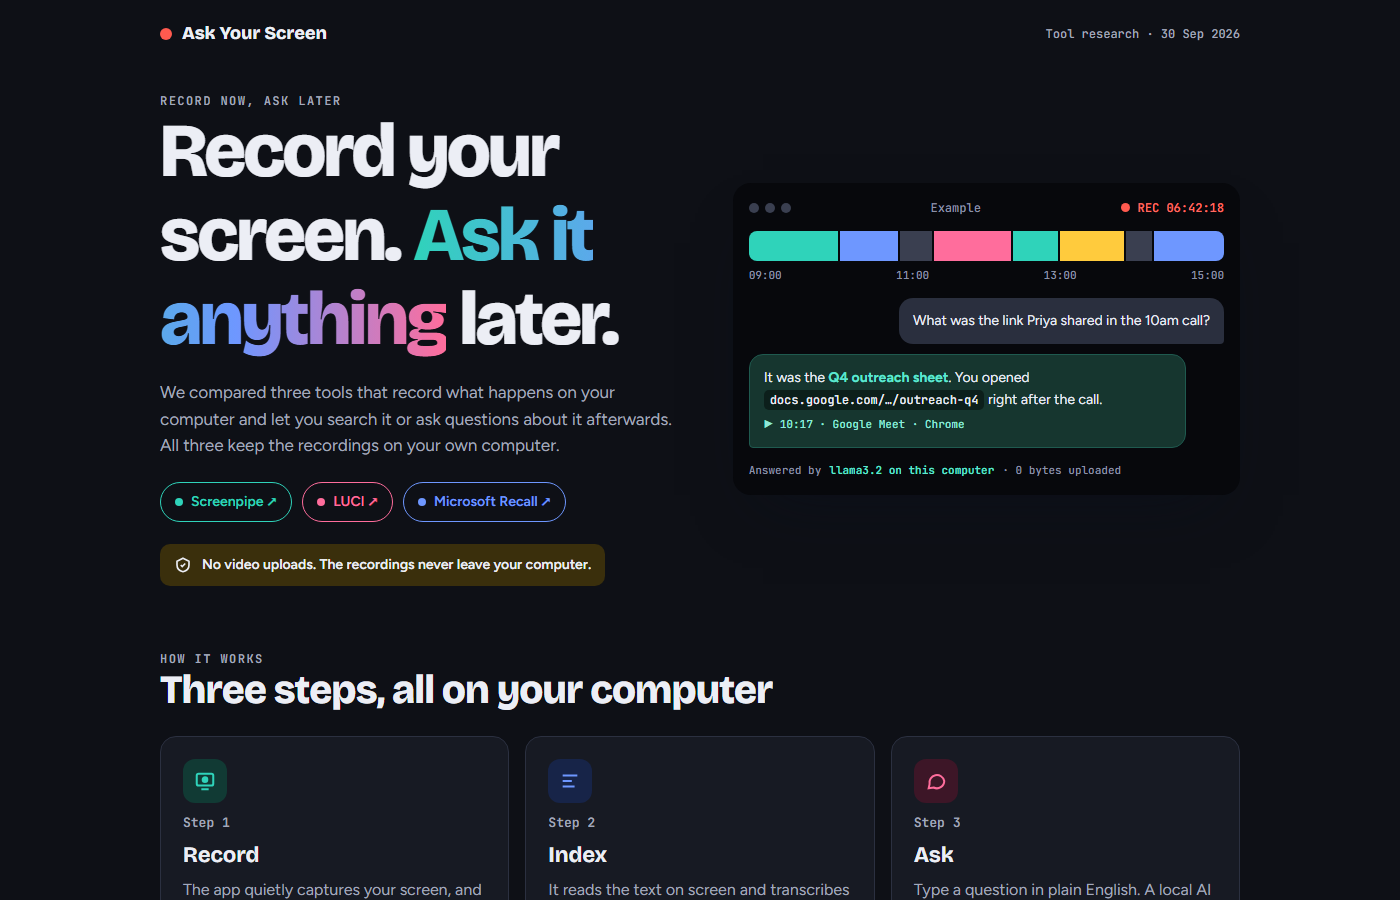
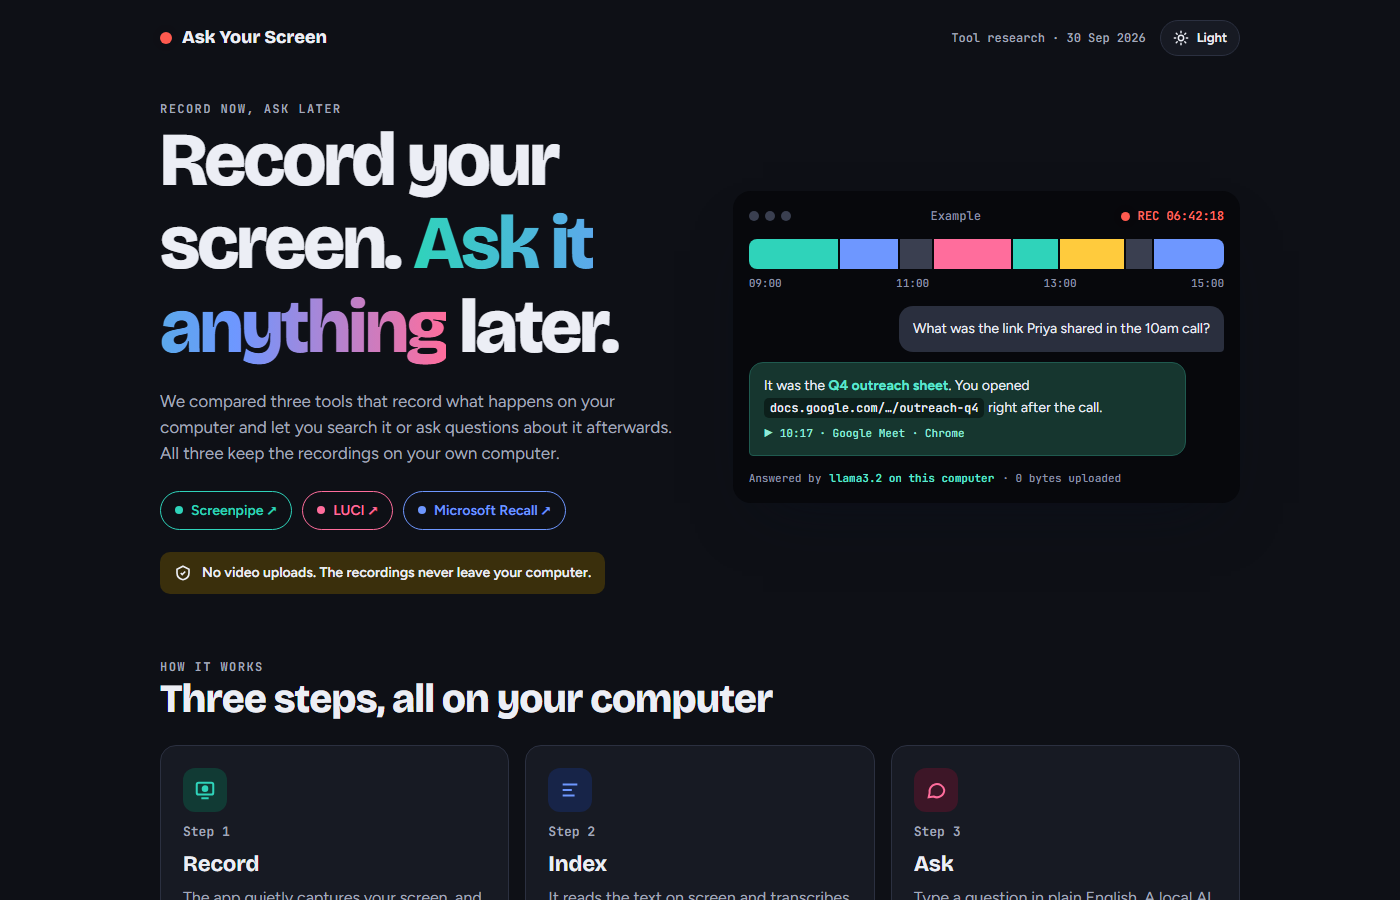
Add light/dark mode toggle, default to dark

diff --git a/index.html b/index.html
@@ -8,7 +8,16 @@
 <meta property="og:description" content="Record your screen, ask it anything later. Screenpipe vs LUCI vs Microsoft Recall, all local, no uploads.">
 <meta property="og:url" content="https://smit02k.github.io/ask-your-screen/">
 <meta property="og:image" content="https://smit02k.github.io/ask-your-screen/assets/preview.png">
-<meta name="twitter:card" content="summary_large_image"><link rel="preconnect" href="https://fonts.googleapis.com">
+<meta name="twitter:card" content="summary_large_image">
+<script>
+/* Theme: dark by default; remembers the visitor's choice. Runs before content renders to avoid a flash. */
+(function(){
+  var t = 'dark';
+  try { var s = localStorage.getItem('theme'); if (s === 'light' || s === 'dark') t = s; } catch(e){}
+  document.documentElement.setAttribute('data-theme', t);
+})();
+</script>
+<link rel="preconnect" href="https://fonts.googleapis.com">
 <link rel="preconnect" href="https://fonts.gstatic.com" crossorigin>
 <link rel="stylesheet" href="https://fonts.googleapis.com/css2?family=Bricolage+Grotesque:opsz,wght@12..96,500;12..96,700;12..96,800&family=Figtree:wght@400;500;600;700&family=JetBrains+Mono:wght@500;600&display=swap">
 <style>
@@ -59,6 +68,14 @@ section{padding-block:56px 0; display:grid; gap:24px}
 .recdot{width:12px; height:12px; border-radius:50%; background:var(--rec); box-shadow:0 0 0 4px color-mix(in srgb,var(--rec) 22%,transparent); animation:pulse 1.6s ease-in-out infinite}
 @keyframes pulse{50%{box-shadow:0 0 0 8px color-mix(in srgb,var(--rec) 0%,transparent)}}
 .meta{font-family:var(--f-mono); font-size:12px; color:var(--muted)}
+.top-right{display:flex; align-items:center; gap:14px}
+.theme-btn{font:inherit; font-size:13px; font-weight:600; display:inline-flex; align-items:center; gap:8px; padding:7px 12px; border-radius:999px; border:1.5px solid var(--line); background:var(--surface); color:var(--ink); cursor:pointer; transition:border-color .2s, background .2s}
+.theme-btn:hover{border-color:var(--muted)}
+.theme-btn svg{flex:none}
+.theme-btn .i-sun{display:none}
+:root[data-theme="dark"] .theme-btn .i-sun{display:block}
+:root[data-theme="dark"] .theme-btn .i-moon{display:none}
+body{transition:background-color .25s, color .25s}
 
 /* hero */
 .hero{display:grid; grid-template-columns:1.05fr 1fr; gap:40px; align-items:center; padding-block:24px 8px}
@@ -216,7 +233,14 @@ footer{margin-top:40px; font-family:var(--f-mono); font-size:12px; color:var(--m
 <div class="wrap">
   <header class="top">
     <div class="brand"><span class="recdot" aria-hidden="true"></span>Ask Your Screen</div>
-    <div class="meta">Tool research · 30 Sep 2026</div>
+    <div class="top-right">
+      <div class="meta">Tool research · 30 Sep 2026</div>
+      <button class="theme-btn" id="theme-btn" type="button" aria-label="Switch color theme">
+        <svg class="i-sun" width="16" height="16" viewBox="0 0 24 24" fill="none" stroke="currentColor" stroke-width="2.2" stroke-linecap="round" aria-hidden="true"><circle cx="12" cy="12" r="4"/><path d="M12 2v2M12 20v2M4.9 4.9l1.4 1.4M17.7 17.7l1.4 1.4M2 12h2M20 12h2M4.9 19.1l1.4-1.4M17.7 6.3l1.4-1.4"/></svg>
+        <svg class="i-moon" width="16" height="16" viewBox="0 0 24 24" fill="none" stroke="currentColor" stroke-width="2.2" stroke-linecap="round" stroke-linejoin="round" aria-hidden="true"><path d="M21 12.8A9 9 0 1 1 11.2 3a7 7 0 0 0 9.8 9.8z"/></svg>
+        <span class="theme-label">Light</span>
+      </button>
+    </div>
   </header>
 
   <!-- HERO -->
@@ -598,6 +622,21 @@ footer{margin-top:40px; font-family:var(--f-mono); font-size:12px; color:var(--m
 
 <script>
 (function(){
+  var root = document.documentElement, tbtn = document.getElementById('theme-btn');
+  function syncTheme(){
+    var dark = root.getAttribute('data-theme') === 'dark';
+    tbtn.querySelector('.theme-label').textContent = dark ? 'Light' : 'Dark';
+    tbtn.setAttribute('aria-label', dark ? 'Switch to light mode' : 'Switch to dark mode');
+    document.querySelector('meta[name="theme-color"]').setAttribute('content', dark ? '#0E1016' : '#F5F6FA');
+  }
+  tbtn.addEventListener('click', function(){
+    var next = root.getAttribute('data-theme') === 'dark' ? 'light' : 'dark';
+    root.setAttribute('data-theme', next);
+    try { localStorage.setItem('theme', next); } catch(e){}
+    syncTheme();
+  });
+  syncTheme();
+
   var tabs = document.querySelectorAll('.tab');
   function show(t){
     tabs.forEach(function(b){
